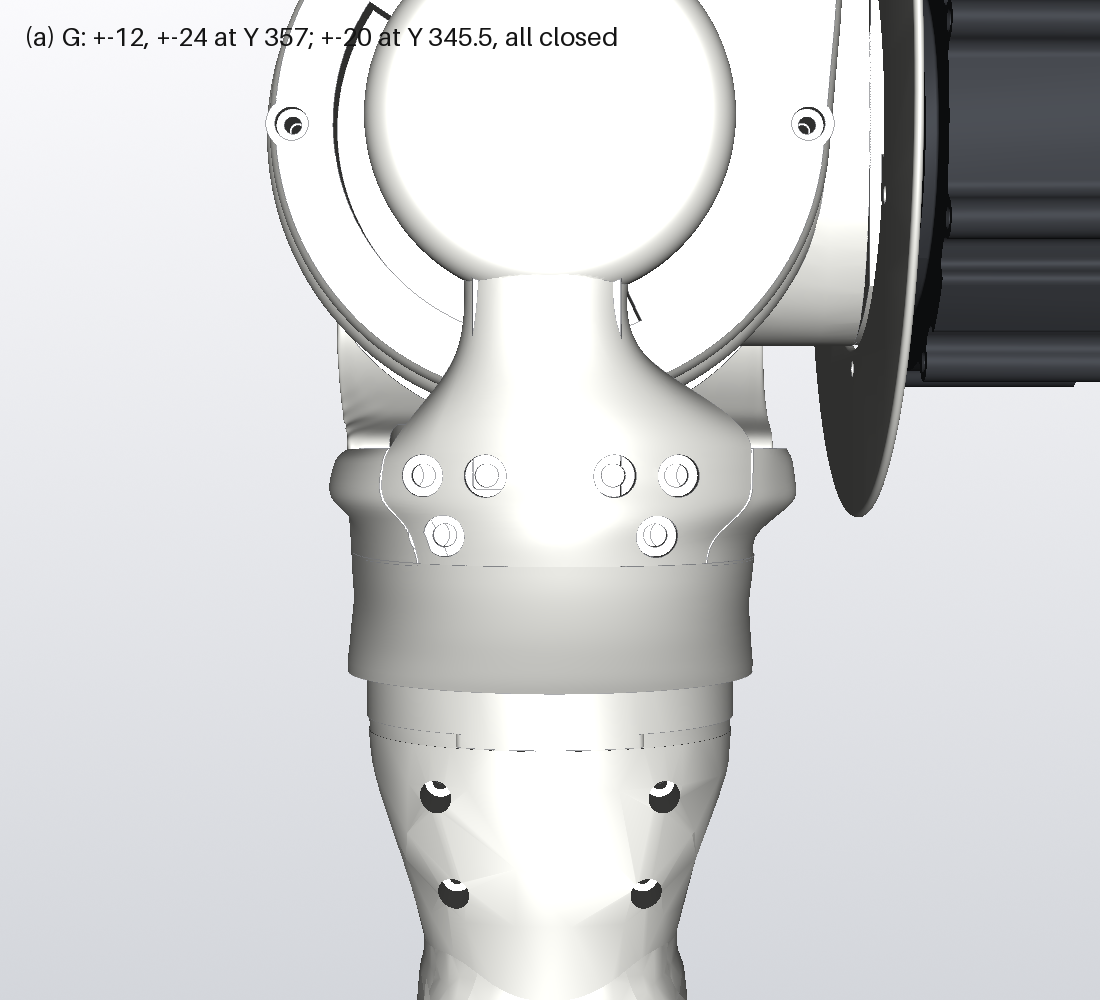
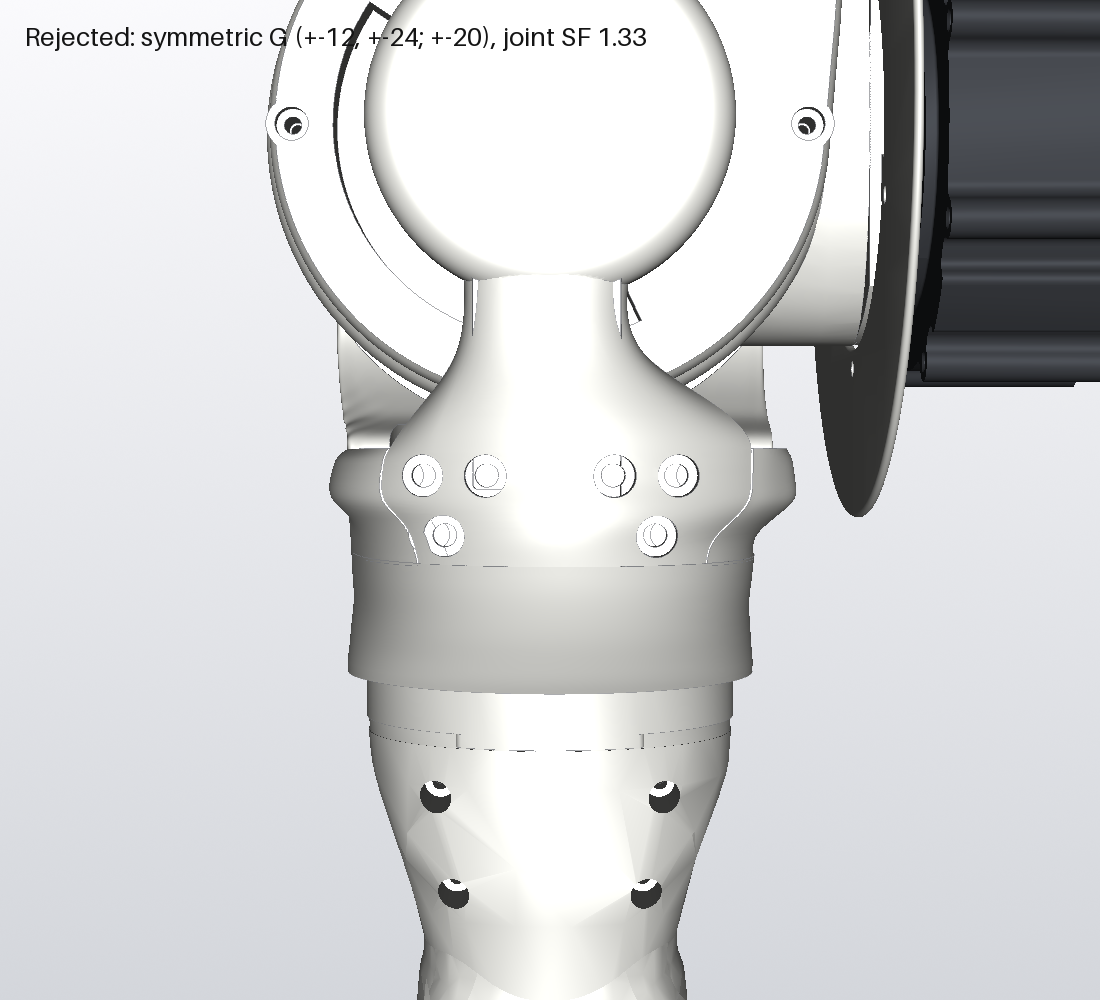
Rear screws: layout N sheet (all counterbores closed) against before and G

Changed region(s): [[0.0309, 0.031, 0.5873, 0.062]]

diff --git a/hardware/shoulder/study-20261111/cad-pass1/scripts/render_rear_screws.py b/hardware/shoulder/study-20261111/cad-pass1/scripts/render_rear_screws.py
@@ -12,9 +12,12 @@ from dims import *
 
 OUT = Path(sys.argv[1]); OUT.mkdir(parents=True, exist_ok=True)
 W = R.REPO / 'cad' / '_wip' / 'shoulder-pass1'
-VAR = {'six': ('Now: +-17, +-27 at Y 357; +-22 at Y 345.5 (+27, +22 break the edge)', W / 'stl' / 'fork_rear.stl'),
-       'G': ('(a) G: +-12, +-24 at Y 357; +-20 at Y 345.5, all closed', W / 'stl_look_rsG' / 'fork_rear.stl'),
-       'Gc': ('(b) G with flush printed caps (shut circles only)', W / 'stl_look_rsGc' / 'fork_rear.stl')}
+VAR = {'six': ('Before: +-17, +-27 at Y 357; +-22 at Y 345.5 (+27 and +22 break the edge)', W / 'stl' / 'fork_rear.stl'),
+       'N': ('Layout N (real): -27, -17, +17, +26 at Y 357; -22, +20 at Y 345.5, all closed', W / 'stl_look_rsN' / 'fork_rear.stl'),
+       'G': ('Rejected: symmetric G (+-12, +-24; +-20), joint SF 1.33', W / 'stl_look_rsG' / 'fork_rear.stl')}
+import os
+if (W / 'stl_look_rsNc' / 'fork_rear.stl').exists():
+    VAR['Nc'] = ('N with flush printed caps (option b)', W / 'stl_look_rsNc' / 'fork_rear.stl')
 Fb = np.array([RX, 352.0, -40.0])
 VIEWS = [('back', Fb + np.array([0.0, 10.0, -420.0]), Fb, 26), ('back34', Fb + np.array([300.0, 60.0, -380.0]), Fb, 26)]
 for v, (title, path) in VAR.items():

diff --git a/hardware/shoulder/study-20261111/cad-pass1/look-options/rear_screws/README.md b/hardware/shoulder/study-20261111/cad-pass1/look-options/rear_screws/README.md
@@ -15,3 +15,18 @@ r 47 sleeve.
 **One untidy spot:** the outer ±27 counterbores sit right at the fork rear's side edge, by the split, so each reads as a
 hole partly open at that edge. Moving them in to ±25 would clear the edge, at a small cost in joint margin. Say if Joey
 would rather have that.
+
+## Update 2026-11-12: layout N adopted
+
+![sheet](SHEET_rear_screws.png)
+
+Columns: before, layout N (going onto the real parts), and the rejected symmetric layout G.
+
+- **N:** top row X -27, -17, +17, +26 at Y 357; lower row -22, +20 at Y 345.5.
+  - Every counterbore is fully closed, with at least 1.5 mm of skin to the fork rear's edge. The swell is off-centre, so
+    the right edge allows only +26.6 / +21.
+  - Rated-torque joint layer SF **1.49** (FEA), against 1.5. Accepted as inside FEA scatter.
+- **G** (symmetric ±12/±24, ±20) looks tidier but drops the joint to 1.33. Rejected.
+- **Screws:** all six are ISO 7380 M4 button heads, because the outer recesses are only about 3.1 mm deep.
+- **Caps option (b) on N:** queued. The caps pictures above are on G.
+
